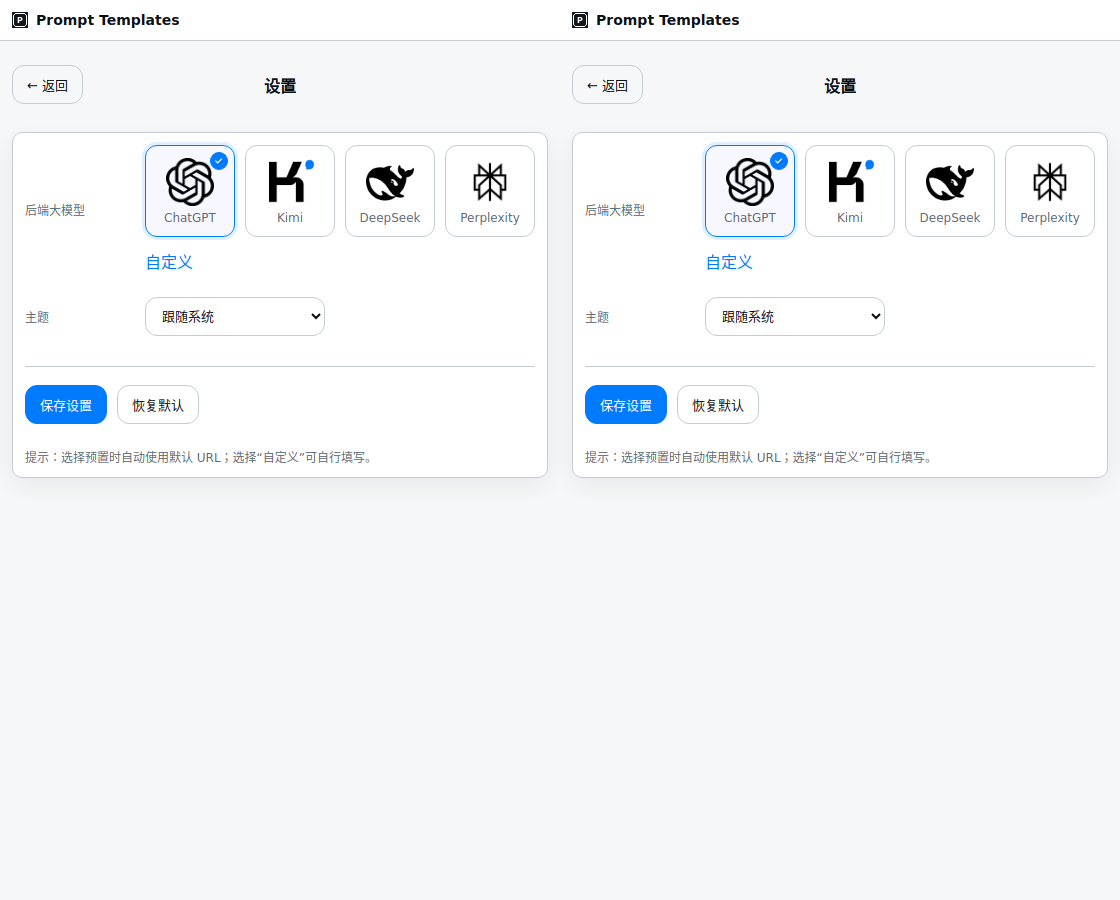
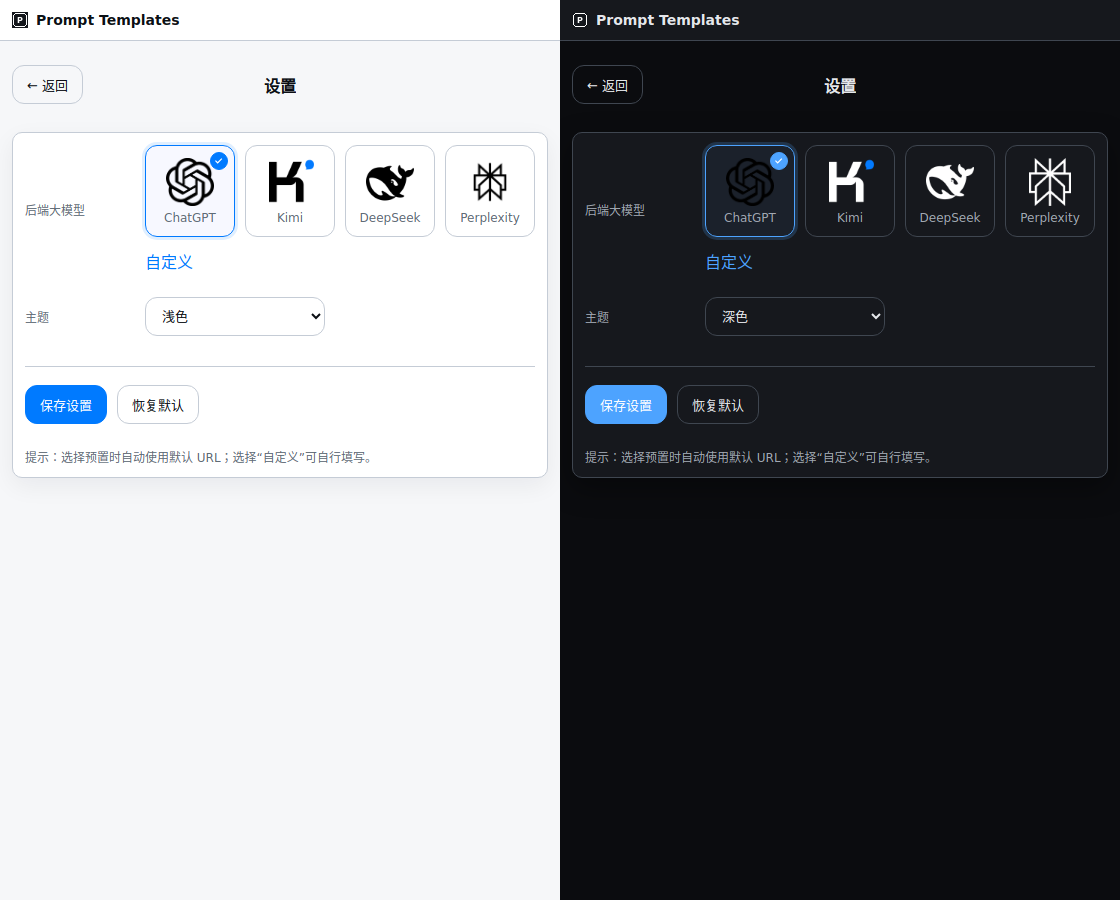
Improve dark mode handling and update screenshot tool settings storage

diff --git a/edge-prompt-templates/panel.html b/edge-prompt-templates/panel.html
@@ -108,8 +108,12 @@ input[type="checkbox"]:focus{outline:none;box-shadow:0 0 0 3px var(--accent-soft
 .provider-card img.theme-dark{display:none}
 [data-theme="dark"] .provider-card img.theme-light{display:none}
 [data-theme="dark"] .provider-card img.theme-dark{display:block}
+@media (prefers-color-scheme: dark){
+:root:not([data-theme="light"]) .provider-card img.theme-light{display:none}
+:root:not([data-theme="light"]) .provider-card img.theme-dark{display:block}
+}
 /* DeepSeek: if dark variant is not ideal, invert light on dark */
-[data-theme="dark"] .provider-card[data-pv="deepseek"] img.theme-dark{filter:invert(1) brightness(1.2)}
+/* no overrides for deepseek; use provided dark asset as-is */
 .provider-card .name{font-size:12px;color:var(--muted);line-height:1}
 .provider-card .tick{position:absolute;top:6px;right:6px;width:18px;height:18px;border-radius:50%;border:1px solid var(--accent);background:var(--accent);display:none;align-items:center;justify-content:center}
 .provider-card .tick svg{width:12px;height:12px;display:block}

diff --git a/edge-prompt-templates/popup.html b/edge-prompt-templates/popup.html
@@ -110,8 +110,12 @@ input[type="checkbox"]:focus{outline:none;box-shadow:0 0 0 3px var(--accent-soft
 .provider-card img.theme-dark{display:none}
 [data-theme="dark"] .provider-card img.theme-light{display:none}
 [data-theme="dark"] .provider-card img.theme-dark{display:block}
+@media (prefers-color-scheme: dark){
+:root:not([data-theme="light"]) .provider-card img.theme-light{display:none}
+:root:not([data-theme="light"]) .provider-card img.theme-dark{display:block}
+}
 /* DeepSeek: if dark variant is not ideal, invert light on dark */
-[data-theme="dark"] .provider-card[data-pv="deepseek"] img.theme-dark{filter:invert(1) brightness(1.2)}
+/* no overrides for deepseek; use provided dark asset as-is */
 .provider-card .name{font-size:12px;color:var(--muted);line-height:1}
 .provider-card .tick{position:absolute;top:6px;right:6px;width:18px;height:18px;border-radius:50%;border:1px solid var(--accent);background:var(--accent);display:none;align-items:center;justify-content:center}
 .provider-card .tick svg{width:12px;height:12px;display:block}

diff --git a/tools/screenshot.js b/tools/screenshot.js
@@ -28,7 +28,7 @@ async function captureVariant(page, fileUrl, theme, tmpNames){
 
   await page.setViewport({ width: 560, height: 860, deviceScaleFactor: 1 });
   await page.goto(fileUrl, { waitUntil: 'networkidle0' });
-  await page.evaluate((t)=>{ try{ localStorage.setItem('pts_settings', JSON.stringify({provider:'chatgpt', theme:t, regularURL:'', temporaryURL:''})); }catch(e){} }, theme);
+  await page.evaluate((t)=>{ try{ localStorage.setItem('__pts__', JSON.stringify({ '__settings__': { provider:'chatgpt', theme:t, regularURL:'', temporaryURL:'' } })); }catch(e){} }, theme);
   await page.reload({ waitUntil: 'networkidle0' });
   await waitForCards(page);
   await sleep(400);
